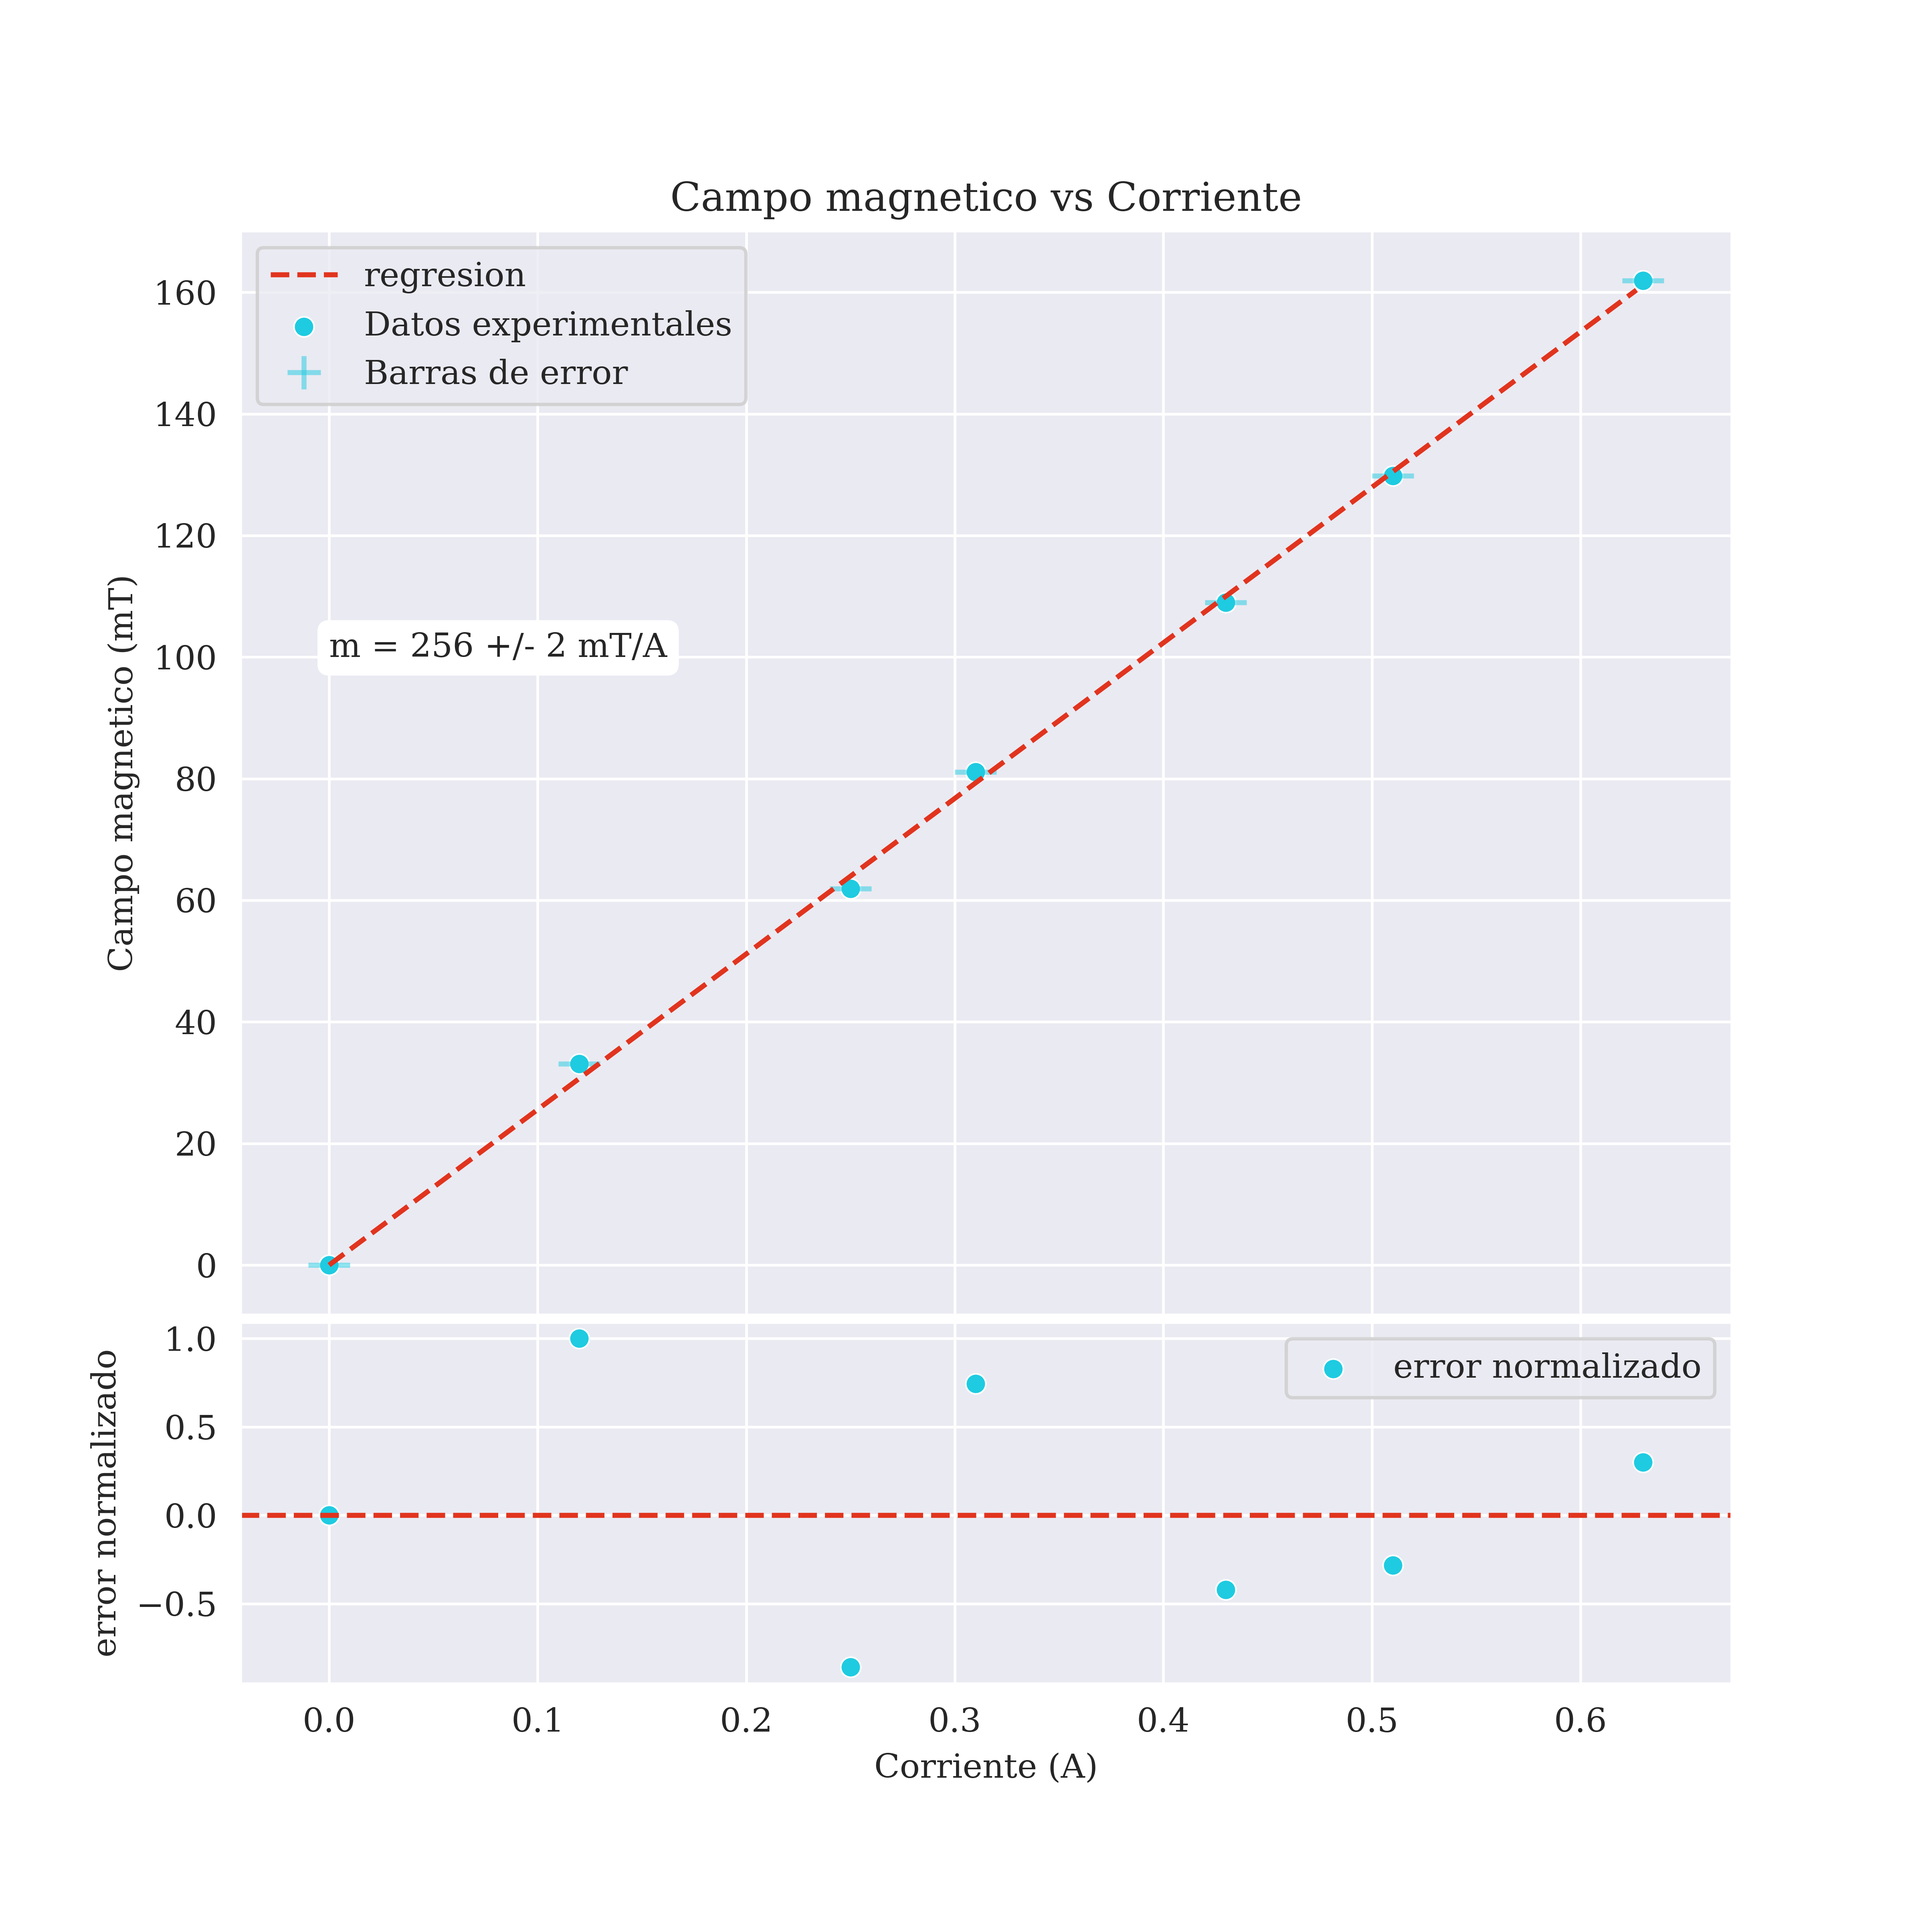
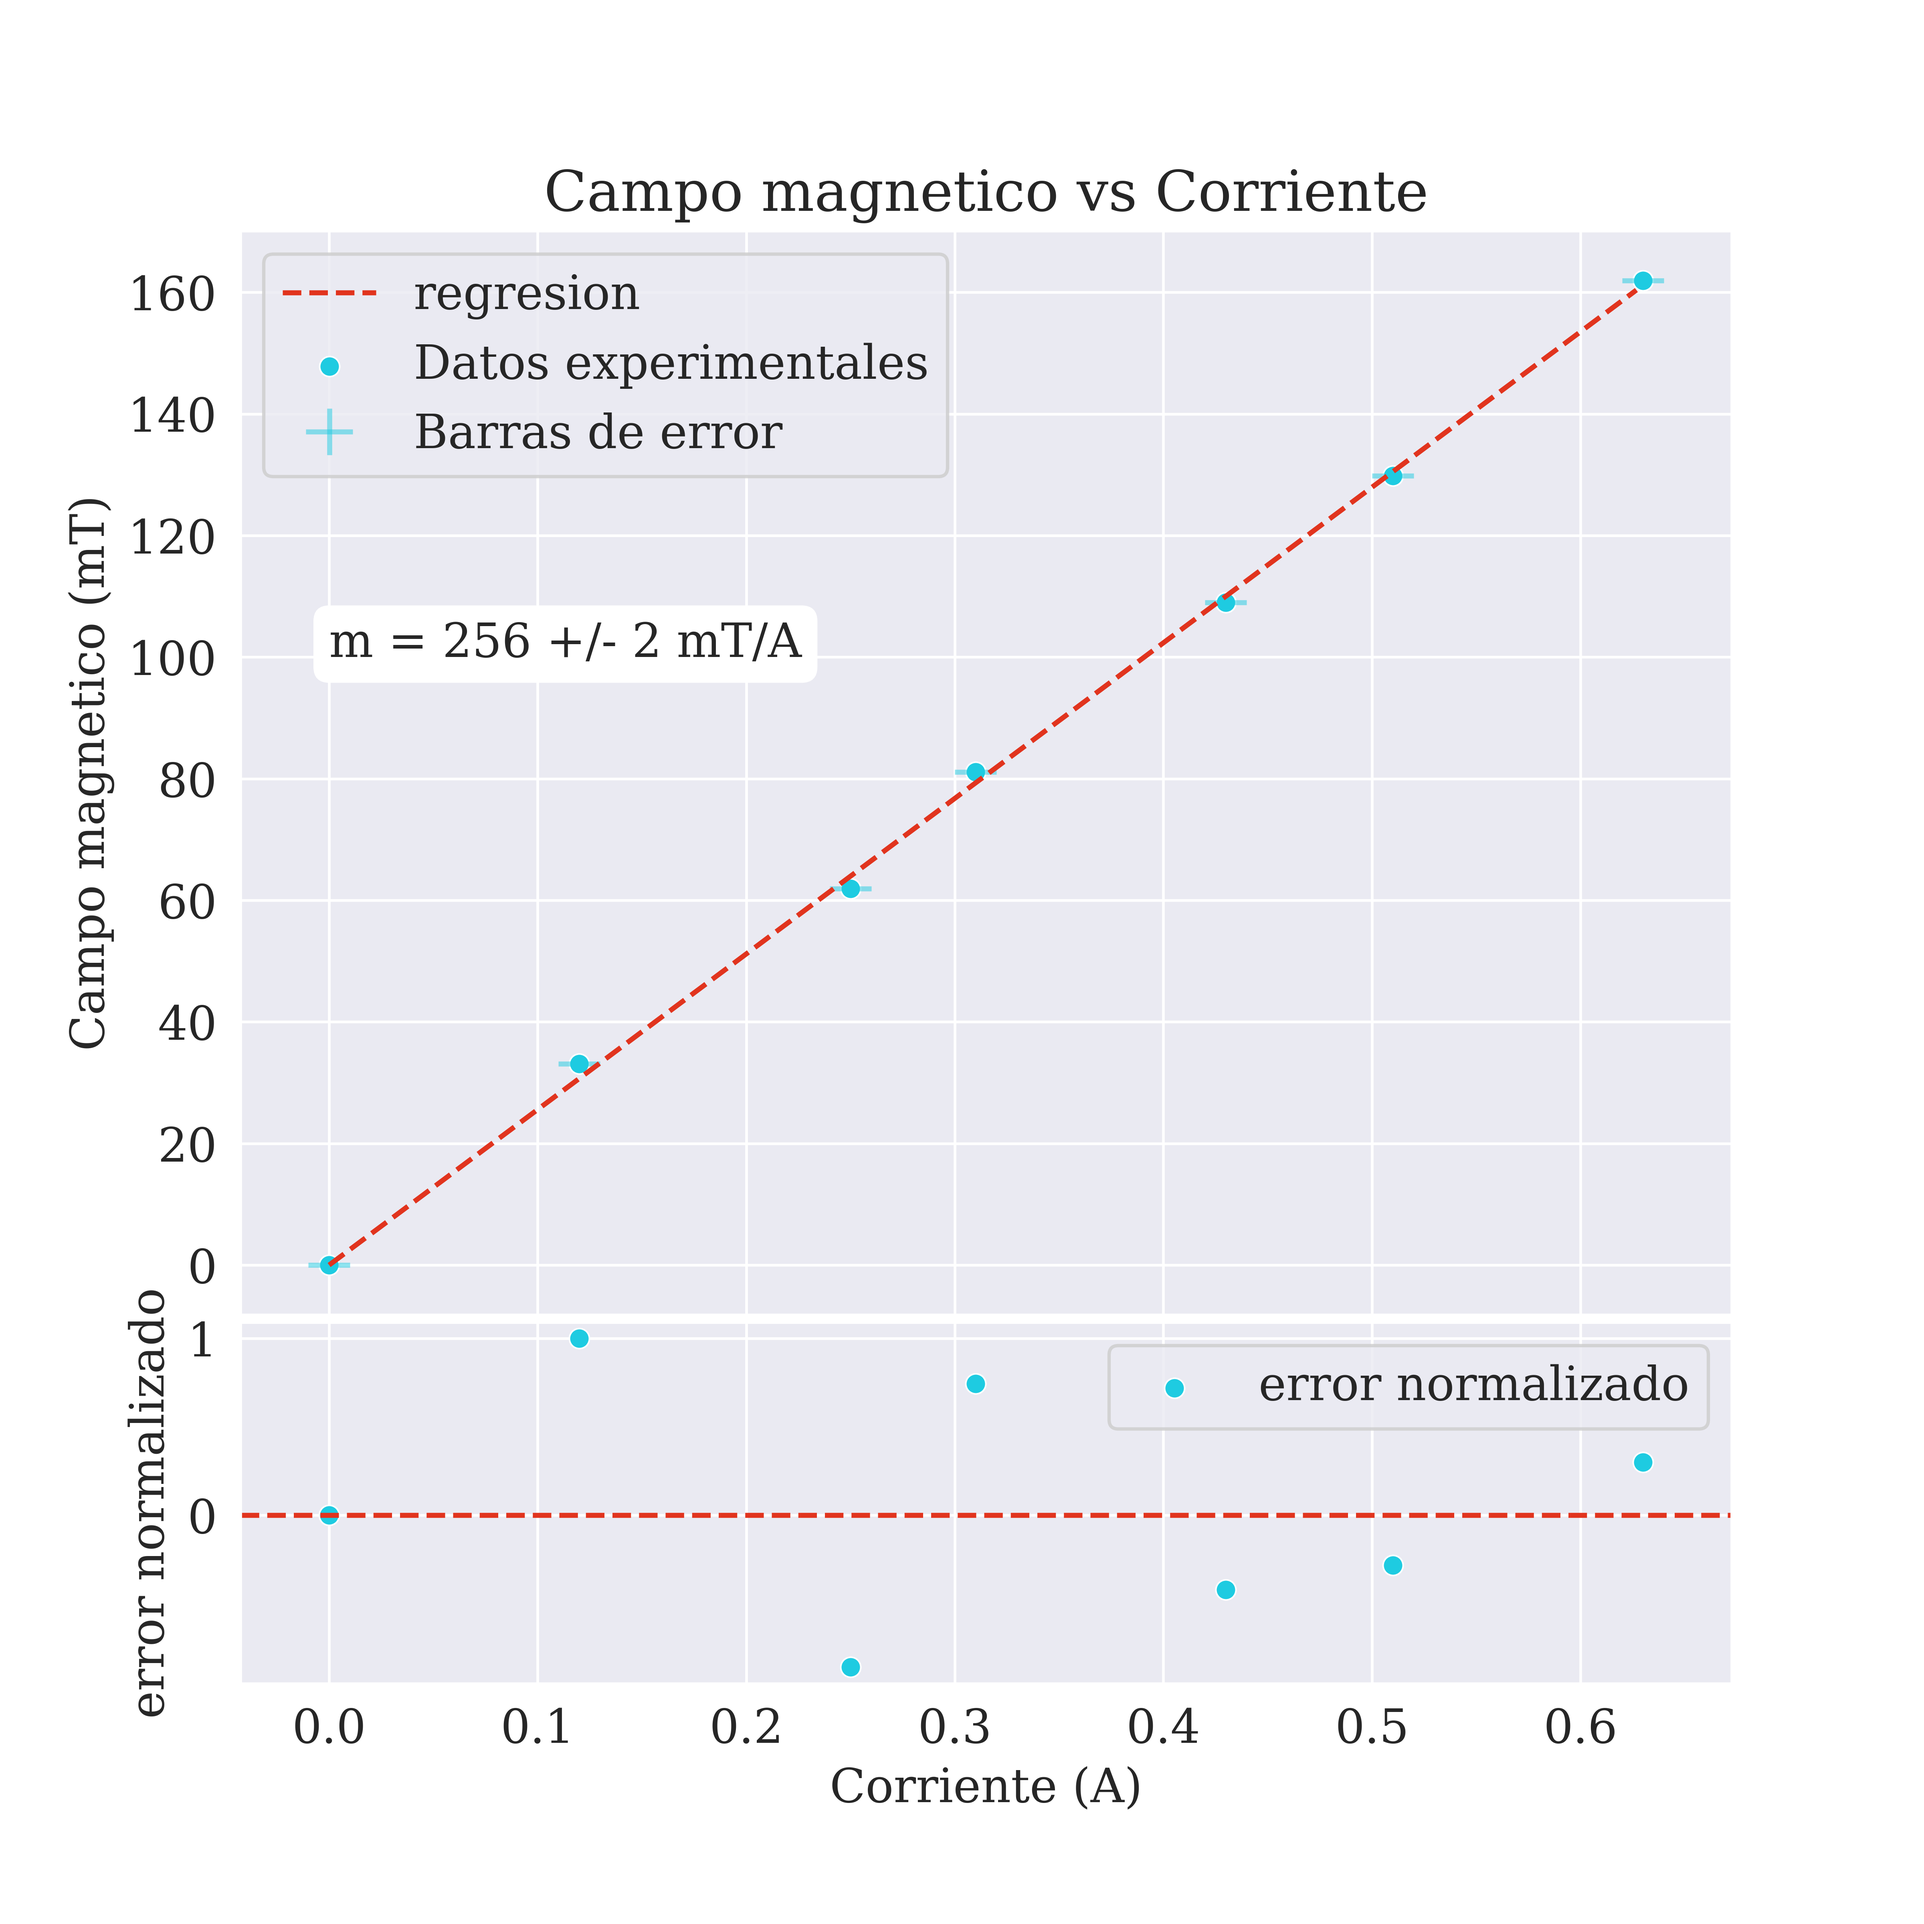
Efecto Hall

diff --git a/Codigos/Analisis de datos/Analisis_efecto_hall.py b/Codigos/Analisis de datos/Analisis_efecto_hall.py
@@ -16,10 +16,13 @@ sns.set_style('darkgrid')
 
 plt.rcParams["font.family"] = "serif"
 
+plt.rcParams["font.size"] = "14"
+
 bbox = dict(boxstyle ="round",facecolor='white')
 
 __Fpath__="../../"
 
+pendiente = 255.00
 
 #%%
 """
@@ -31,6 +34,33 @@ def fun1(x, m):
 
 def fun2(x,a,b,e):
     return a*np.power(x,b)+e
+
+def errorC(x,m,dx,dm):
+    factor1 = (m*dm)**2
+    factor2 = (x*dx)**2
+    return np.sqrt(factor1+factor2)
+
+def error_1_0(x,I,dv,dI):
+    factor1 = (1/I*dv)**2
+    factor2 = np.power((x/(I**2)*dI),2)
+    return np.sqrt(factor1+factor2)
+
+def error_1_1(x,r_0,dx,dr0):
+    factor1 = np.power(dx/r_0,2)
+    factor2 = np.power(dr0*x/(r_0**2),2)
+    return np.sqrt(factor1+factor2)
+
+def error_2_1(x,I,L,A,dx,dI):
+    factor1 = np.power(L/(A*x)*dI,2)
+    factor2 = np.power(L*I/(A*np.power(x,2))*dx,2)
+    return np.sqrt(factor1+factor2)
+
+def error_3_1(x,I,B,dx,dI,dB):
+    factor1 = np.power(dx/(I*B),2)
+    factor2 = np.power(dI*x/((I**2)*B),2)
+    factor3 = np.power(dB*x/(I*(B**2)),2)
+    return np.sqrt(factor1 + factor2 + factor3)
+
 
 #%%
 
@@ -117,7 +147,7 @@ plt.savefig(__Fpath__+"Images/Actidad1.png",dpi=600)
 Actividad 3
 """
 #corriente ip=30mA
-url="Data\Intermedio\CSV_Efecto_Hall\Acrividad_3-1.csv"
+url="Data\Intermedio\CSV_Efecto_Hall\Acrividad_3-2.csv"
 
 df = pd.read_csv(__Fpath__+url)
 
@@ -126,19 +156,28 @@ df = pd.read_csv(__Fpath__+url)
 L = 20E-3
 A = 10E-6
 
-df["campo"] = round(df["corriente (mA)"]*param[0],1)
+df["campo"] = round(df["corriente (mA)"]*pendiente,1)
+df["sterrc"] = errorC(df["campo"],pendiente,0.1,2)
 
 r_0 = round(df["voltaje longitudinal (v)"][0]/30E-3,1) 
+dr0 = error_1_0(r_0,30E-3,0.01,1E-3)
 
 sigma_0 = round(L/(r_0*A),1)
 
+
+
 df["Resistencia"] = round(df["voltaje longitudinal (v)"]/30E-3,1)
+df["sterrR"] = error_1_0(df["voltaje longitudinal (v)"],30E-3,0.01,1E-3)
 
 df["Diferencia"] = (df["Resistencia"] - r_0)/r_0
+df["sterrD"] = error_1_1(df["Diferencia"],r_0,df["sterrR"],dr0)
+
+
 #%%
 
 
 df = df[df["Diferencia"] > 0.0]
+df = df[df["Diferencia"] < max(df["Diferencia"])]
 x = df["campo"] 
 y = df["Diferencia"]
 
@@ -148,9 +187,8 @@ x_grid = np.arange(min(x),max(x),h)
 
 param, param_cov = curve_fit(fun2, x, y)
 
-sterr = np.round(np.sqrt(np.diag(param_cov)),3)
+sterr = np.sqrt(np.diag(param_cov))
 
-param = np.round(param,3)
 print(sterr)
 print(param)
 
@@ -159,6 +197,7 @@ y_comparation = param[0]*np.power(x,param[1])+param[2]
 df["residuales"] = y - y_comparation
 
 df["residuales"] = df["residuales"]/(max(abs(df["residuales"])))
+
 
 # %%
 """
@@ -176,7 +215,7 @@ ax2 = axs[1]
 
 
 ax1.errorbar(x="campo",y="Diferencia",data=df,
-             xerr=0.1, yerr=0.01,
+             xerr=df["sterrc"], yerr=df["sterrD"],
              fmt=" ",alpha=0.5,color="#1ECBE1",
              label="Barras de error")
 
@@ -188,10 +227,6 @@ ax1.plot(x_grid, param[0]*np.power(x_grid,param[1])+param[2],
         label='regresion',linestyle="dashed",
         color="#E1341E"
         )
-
-ax1.annotate("a = {:.0f} +/- {:.0f} mT/A".format(param[0],param_cov[0][0]), 
-             xy=(0.0, 0.0),
-             bbox = bbox)
 
 ax1.legend()
 ax1.set_ylabel("Cambio de resistencia normalizado")
@@ -210,4 +245,228 @@ ax2.set_xlabel("Campo (mT)")
 plt.savefig(__Fpath__+"Images/Actidad2.png",dpi=600)
 
 
+# %%
+
+"""
+Actividad 4
+"""
+
+url="Data\Intermedio\CSV_Efecto_Hall\Actvidad_4-1_TarjetaN.csv"
+
+df = pd.read_csv(__Fpath__+url)
+
+#%%
+"""
+Placa N
+"""
+
+L = 20E-3
+A = 10E-6
+
+Ip = 30E-3
+
+df["conductividad"] = L*Ip/(df["Voltaje Longitudinal (V)"]*A)
+df["sterrc"] = error_2_1(df["Voltaje Longitudinal (V)"],Ip,L,A,0.01,1E-3)
+
+df["Inverso T"] = 1/(df["Temperatura (Cº)"]+273.15)
+df["sterrT"] = 1/np.power(df["Temperatura (Cº)"]+273.15,2)
+
+#%%
+
+df["lnc"] = np.log(df["conductividad"])
+df["sterrlnc"] = df["sterrc"]/df["conductividad"]
+
+#%%
+
+df = df[df["Inverso T"]<0.0030]
+df = df[df["Inverso T"]>0.0027]
+x = df["Inverso T"]
+y = df["lnc"]
+
+lin = stats.linregress(x,y)
+h=(max(x)-min(x))/200
+
+x_grid = np.arange(min(x),max(x),h)
+
+m = lin.slope
+
+dm = lin.stderr
+
+y_comparation = lin.intercept + lin.slope*x
+
+df["residuales"] = y - y_comparation
+df["residuales"] = df["residuales"]/(max(abs(df["residuales"])))
+
+# %%
+
+fig, axs = plt.subplots(ncols=1,nrows=2,
+                        gridspec_kw={'height_ratios':[3,1]},
+                        figsize=(8,8),sharex=True)
+
+plt.subplots_adjust(hspace=0.01)
+
+
+ax1 = axs[0]
+ax2 = axs[1]
+
+
+ax1.errorbar(x="Inverso T",y="lnc",data=df,
+             xerr=df["sterrT"], yerr=df["sterrlnc"],
+             fmt=" ",alpha=0.5,color="#1ECBE1",
+             label="Barras de error")
+
+sns.scatterplot(data=df, x="Inverso T", y="lnc",
+                color="#1ECBE1", label="Datos experimentales",
+                ax=ax1)
+
+ax1.plot(x_grid, m*x_grid+lin.intercept,
+        label='regresion',linestyle="dashed",
+        color="#E1341E"
+        )
+ax1.annotate("m = {:.0f} +/- {:.0f} (V*K/(J*m)) ".format(m,dm), xy=(0.0027, 5.67),
+             bbox = bbox)
+
+ax1.legend()
+ax1.set_ylabel("conductividad (ohm^-1 * m^-1)")
+ax1.set_title("Conductividad vs inverso de T en escala semilogaritmica")
+
+
+sns.scatterplot(data=df, x="Inverso T",y="residuales",
+                color="#1ECBE1", label="error normalizado")
+
+ax2.axhline(0,0,5000,ls ="--", 
+           color="#E1341E")
+ax2.set_ylabel("error normalizado")
+ax2.set_xlabel("Inverso T (k^-1)")
+
+#set the path file
+plt.savefig(__Fpath__+"Images/Actidad_4-1_N.png",dpi=600)
+
+# %%
+
+"""
+Placa I
+"""
+
+url="Data\Intermedio\CSV_Efecto_Hall\Actvidad_4-1_TarjetaI.csv"
+
+df = pd.read_csv(__Fpath__+url)
+
+#%%
+
+L = 20E-3
+A = 10E-6
+
+Ip = 5E-3
+
+df["conductividad"] = L*Ip/(df["Voltaje Longitudinal (V)"]*A)
+df["sterrc"] = error_2_1(df["Voltaje Longitudinal (V)"],Ip,L,A,0.01,1E-3)
+
+df["Inverso T"] = 1/(df["Temperatura (Cº)"]+273.15)
+df["sterrT"] = 1/np.power(df["Temperatura (Cº)"]+273.15,2)
+
+#%%
+
+df["lnc"] = np.log(df["conductividad"])
+df["sterrlnc"] = df["sterrc"]/df["conductividad"]
+
+#%%
+
+x = df["Inverso T"]
+y = df["lnc"]
+
+lin = stats.linregress(x,y)
+h=(max(x)-min(x))/200
+
+x_grid = np.arange(min(x),max(x),h)
+
+m = lin.slope
+
+dm = lin.stderr
+
+y_comparation = lin.intercept + lin.slope*x
+
+df["residuales"] = y - y_comparation
+df["residuales"] = df["residuales"]/(max(abs(df["residuales"])))
+
+# %%
+
+fig, axs = plt.subplots(ncols=1,nrows=2,
+                        gridspec_kw={'height_ratios':[3,1]},
+                        figsize=(8,8),sharex=True)
+
+plt.subplots_adjust(hspace=0.01)
+
+
+ax1 = axs[0]
+ax2 = axs[1]
+
+
+ax1.errorbar(x="Inverso T",y="lnc",data=df,
+             xerr=df["sterrT"], yerr=df["sterrlnc"],
+             fmt=" ",alpha=0.5,color="#1ECBE1",
+             label="Barras de error")
+
+sns.scatterplot(data=df, x="Inverso T", y="lnc",
+                color="#1ECBE1", label="Datos experimentales",
+                ax=ax1)
+
+ax1.plot(x_grid, m*x_grid+lin.intercept,
+        label='regresion',linestyle="dashed",
+        color="#E1341E"
+        )
+ax1.annotate("m = {:.0f} +/- {:.0f} (V*K/(J*m)) ".format(m,dm), xy=(0.0026, 1.5),
+             bbox = bbox)
+
+ax1.legend()
+ax1.set_ylabel("conductividad (ohm^-1 * m^-1)")
+ax1.set_title("Conductividad vs inverso de T en escala semilogaritmica")
+
+
+sns.scatterplot(data=df, x="Inverso T",y="residuales",
+                color="#1ECBE1", label="error normalizado")
+
+ax2.axhline(0,0,5000,ls ="--", 
+           color="#E1341E")
+ax2.set_ylabel("error normalizado")
+ax2.set_xlabel("Inverso T (k^-1)")
+
+#set the path file
+plt.savefig(__Fpath__+"Images/Actidad_4-1_I.png",dpi=600)
+
+# %%
+
+""""
+Actvidad 4.2
+"""
+
+"""
+Placa N
+"""
+
+url="Data\Intermedio\CSV_Efecto_Hall\Actvidad_4-2_TarjetaN.csv"
+
+df = pd.read_csv(__Fpath__+url)
+#%%
+print(df)
+
+#%%
+
+L = 20E-3
+A = 10E-6
+
+B = 1.5*pendiente
+dB = errorC(1.5,pendiente,0.01,2)
+Ip = 30E-3
+
+df["Rh"] = df["Voltaje Hall (V)"]/(B*Ip)
+df["sterrRh"] = error_3_1(df["Voltaje Hall (V)"],Ip,B,0.001,1E-3,dB)
+
+
+
+#%%
+
+sns.scatterplot(data=df, x="Temperatura (Cº)", y="Rh",
+                color="#1ECBE1", label="Datos experimentales",
+                )
 # %%

diff --git a/Codigos/Analisis de datos/Analisis_muones.py b/Codigos/Analisis de datos/Analisis_muones.py
@@ -15,6 +15,8 @@ sns.set_style('darkgrid')
 
 plt.rcParams["font.family"] = "serif"
 
+plt.rcParams["font.size"] = "16"
+
 bbox = dict(boxstyle ="round",facecolor='white')
 
 __Fpath__="../../"
